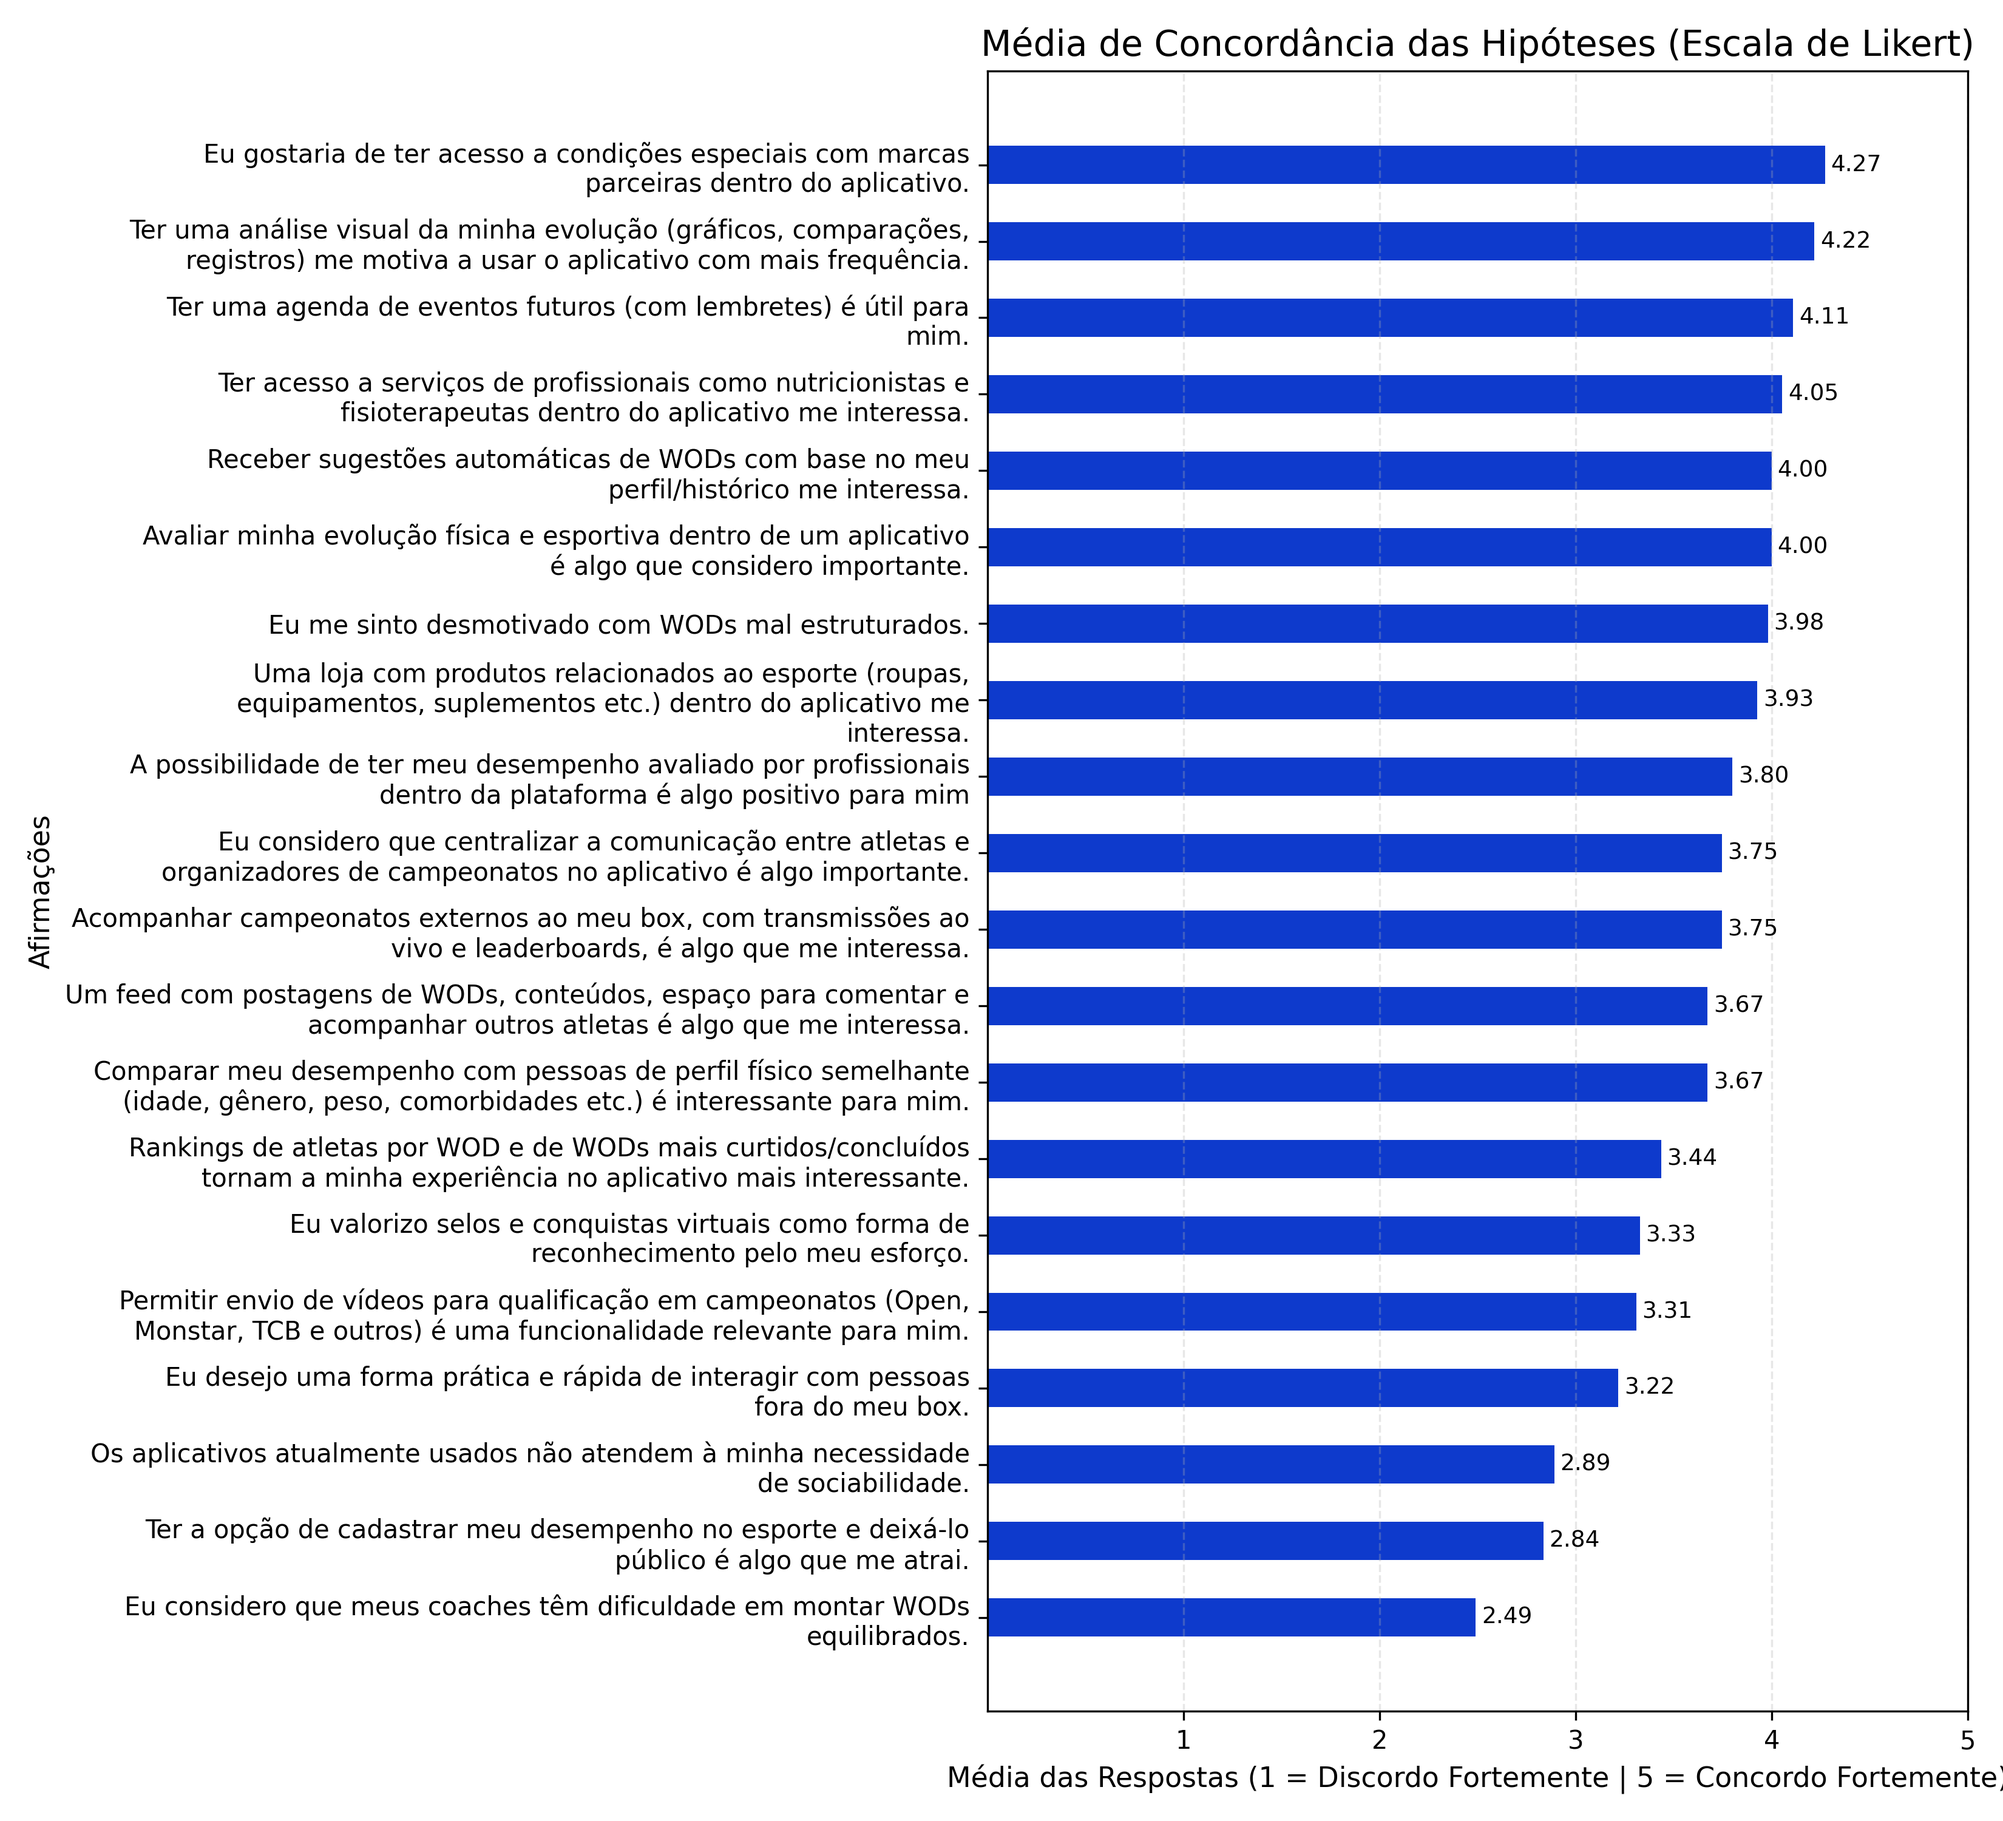
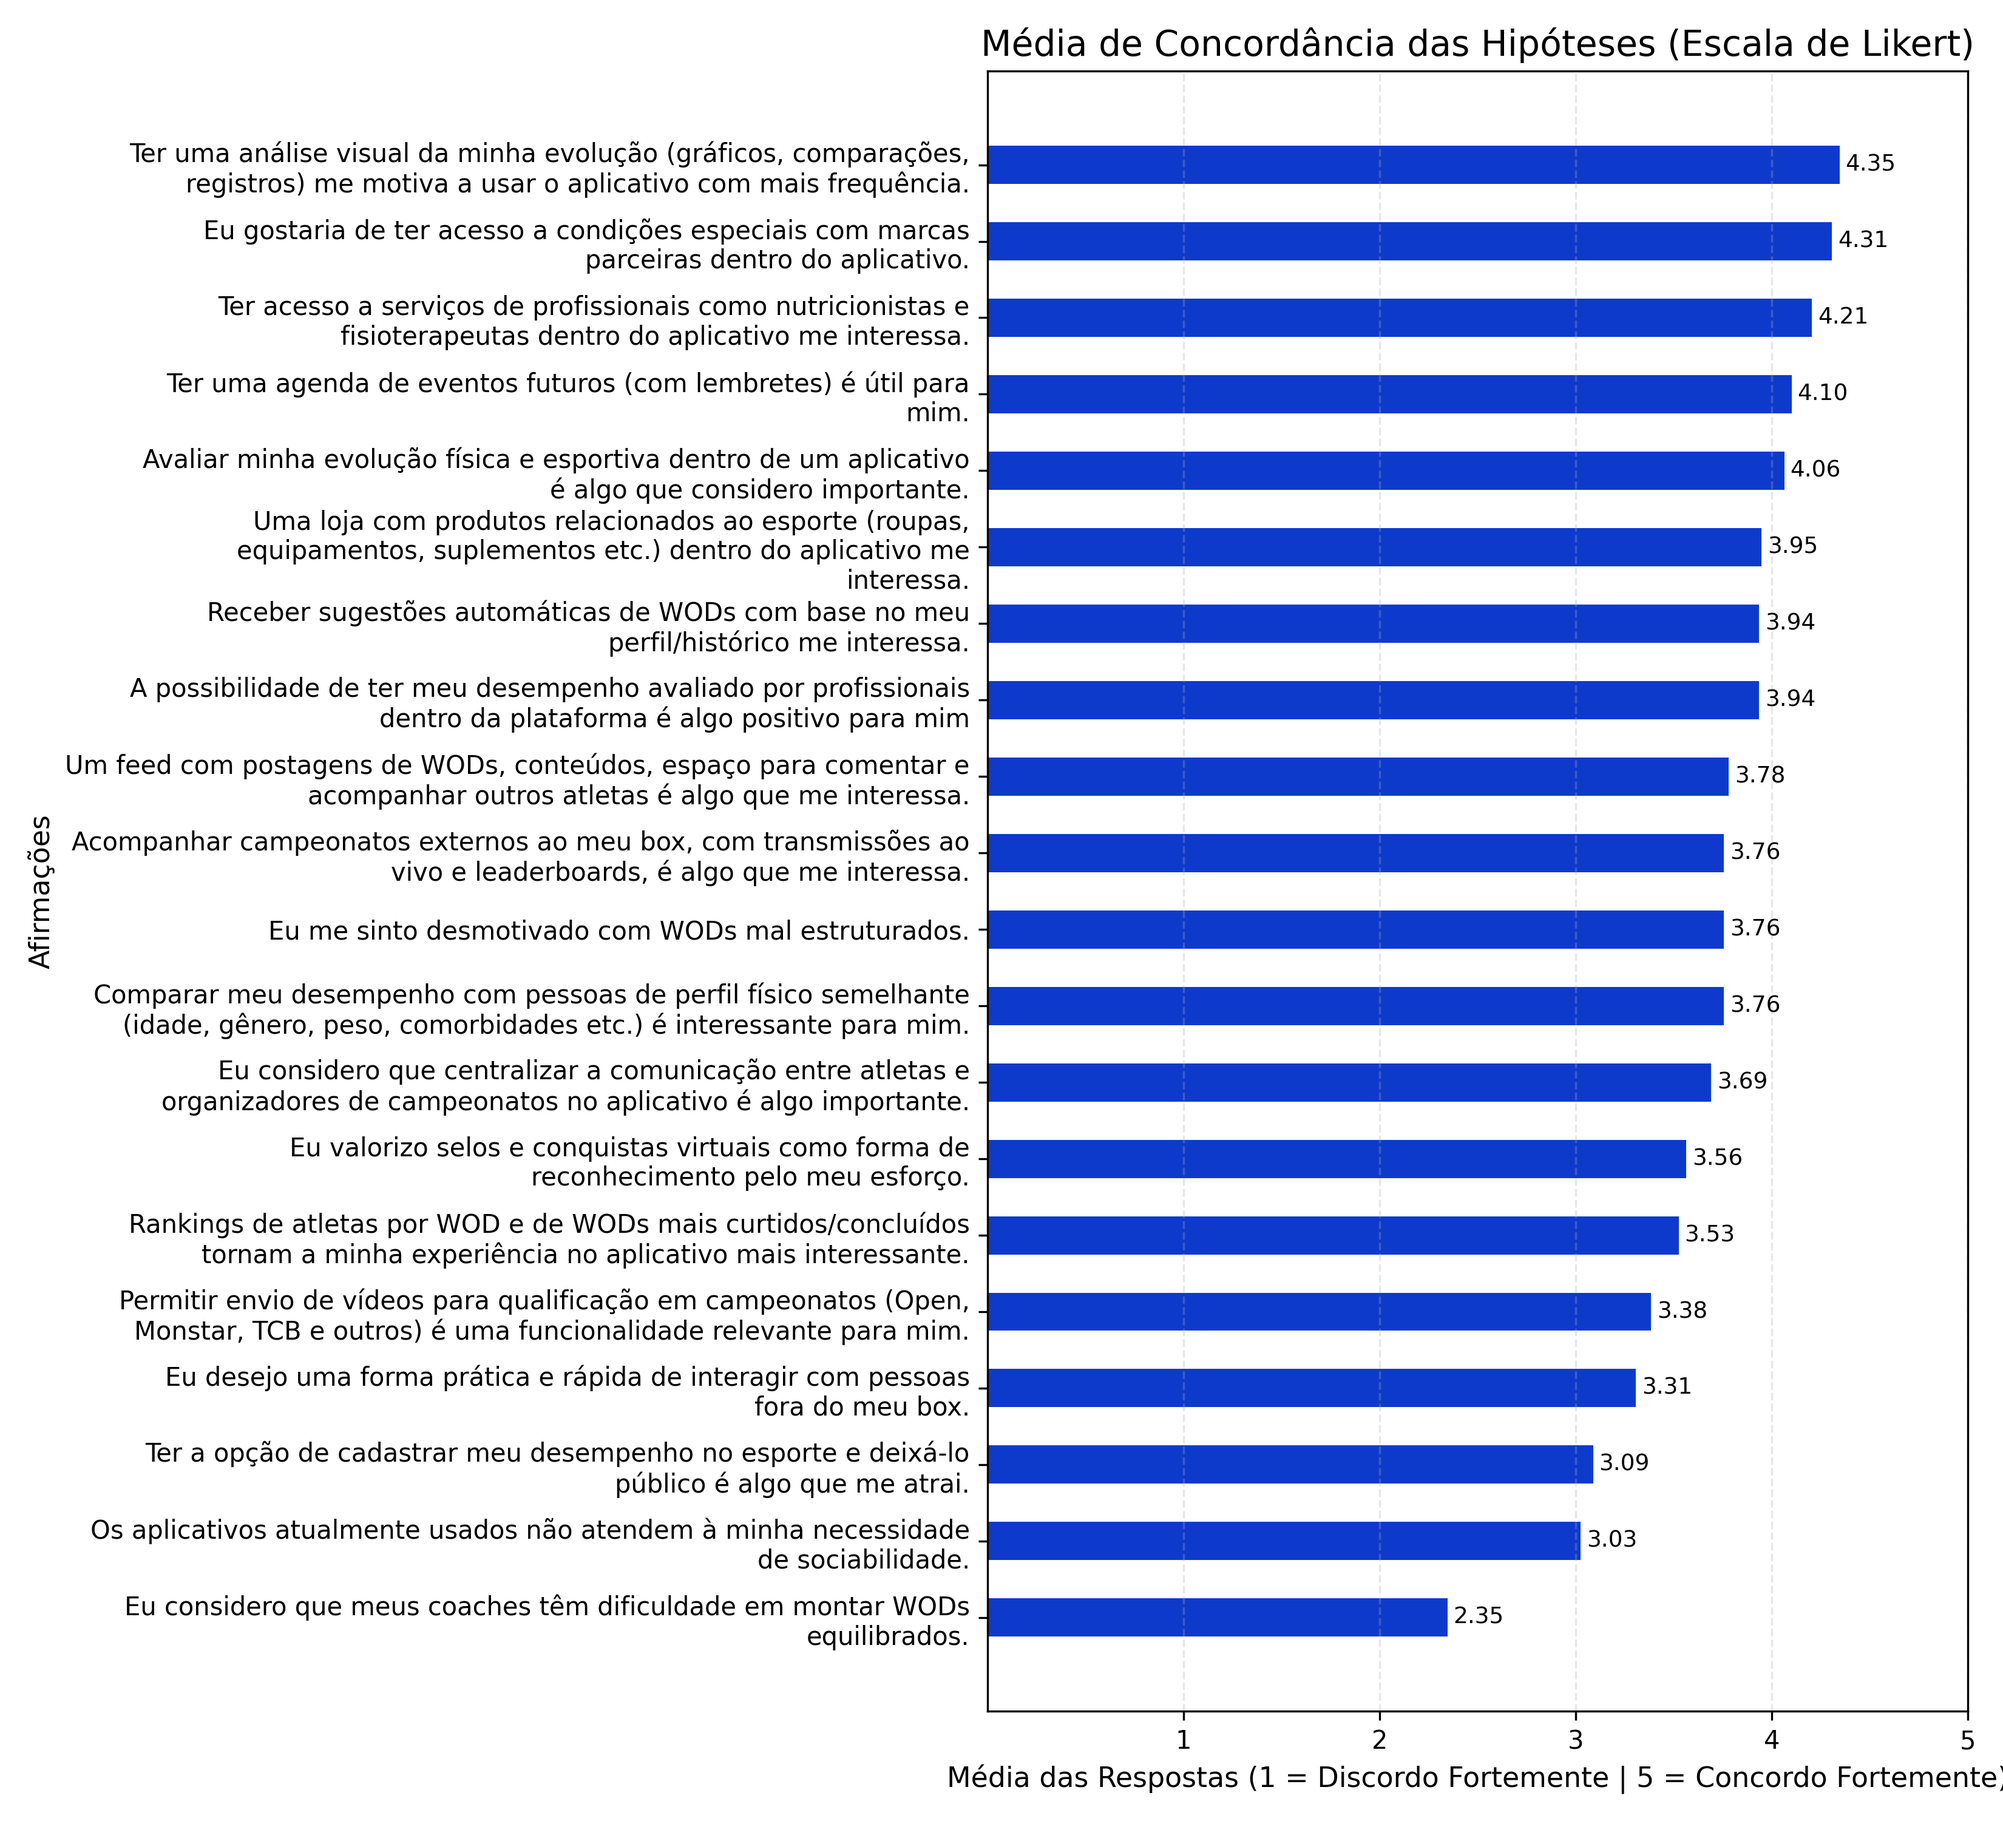
feat(ux_tests): add stacked bar chart with percentage for Likert-scale visualization

diff --git a/scripts_gerais/analise_likert.py b/scripts_gerais/analise_likert.py
@@ -38,6 +38,10 @@ colunas_likert = [
     "Ter acesso a serviços de profissionais como nutricionistas e fisioterapeutas dentro do aplicativo me interessa."
 ]
 
+# Garantindo que não haja valores ausentes (NaN) nas colunas usadas.
+df = df.dropna(subset=colunas_likert)
+
+
 # Aqui eu calculo a média de todas as respostas para cada afirmação
 # O resultado será um ranking com valores entre 1 (discordo fortemente) e 5 (concordo fortemente)
 medias = df[colunas_likert].mean()
@@ -84,4 +88,67 @@ plt.tight_layout()
 plt.savefig("scripts_gerais/grafico_likert.png", dpi=300)
 
 # Mostra o gráfico na tela
+plt.show()
+
+# ---------------------- GRÁFICO DE BARRAS EMPILHADAS COM TODAS AS PORCENTAGENS ----------------------
+
+# Crio um DataFrame apenas com as colunas de Likert
+df_likert = df[colunas_likert]
+
+# Removo respostas incompletas
+df_likert = df_likert.dropna(how='any')
+
+# Calcula a distribuição percentual de cada nota (1 a 5) por hipótese
+frequencias = df_likert.apply(lambda col: col.value_counts(normalize=True).reindex([1,2,3,4,5], fill_value=0) * 100)
+
+# Transponho para que cada linha seja uma hipótese, e colunas sejam as notas 1-5
+frequencias = frequencias.T
+
+# Preparo rótulos quebrados para melhorar legibilidade
+rotulos_quebrados = [
+    textwrap.fill(texto, width=65, break_long_words=False) for texto in frequencias.index
+]
+
+# Configurações do gráfico
+plt.figure(figsize=(11, 12))
+cores = ['#E74C3C', '#F39C12', '#F1C40F', '#2ECC71', '#27AE60']  # Vermelho → Verde
+valores_acumulados = [0] * len(frequencias)
+
+# Criação das barras empilhadas
+for i, nota in enumerate([1, 2, 3, 4, 5]):
+    barras = plt.barh(
+        y=range(len(frequencias)),
+        width=frequencias[nota],
+        left=valores_acumulados,
+        label=f"{nota} - {['Discordo Fortemente','Discordo','Neutro','Concordo','Concordo Fortemente'][i]}",
+        color=cores[i]
+    )
+    
+    # Mostra a % dentro de todas as barras (independente do tamanho)
+    for j, bar in enumerate(barras):
+        valor = frequencias.iloc[j, i]
+        if valor > 0:
+            plt.text(
+                x=valores_acumulados[j] + valor / 2,
+                y=j,
+                s=f"{valor:.0f}%",
+                va='center',
+                ha='center',
+                fontsize=8,
+                color='white'
+            )
+    
+    # Atualiza os valores acumulados para empilhar corretamente
+    valores_acumulados = [a + b for a, b in zip(valores_acumulados, frequencias[nota])]
+
+# Eixos e título
+plt.yticks(range(len(rotulos_quebrados)), rotulos_quebrados, fontsize=8)
+plt.xlabel("Porcentagem das Respostas")
+plt.title("Distribuição Percentual das Respostas (Escala de Likert)", fontsize=14)
+plt.legend(title="Nota", loc='lower right')
+plt.xlim(0, 100)
+plt.tight_layout(rect=[0, 0, 1, 0.98])
+
+# Salva o gráfico novo
+plt.savefig("scripts_gerais/grafico_likert_percentual.png", dpi=300, bbox_inches='tight')
 plt.show()
